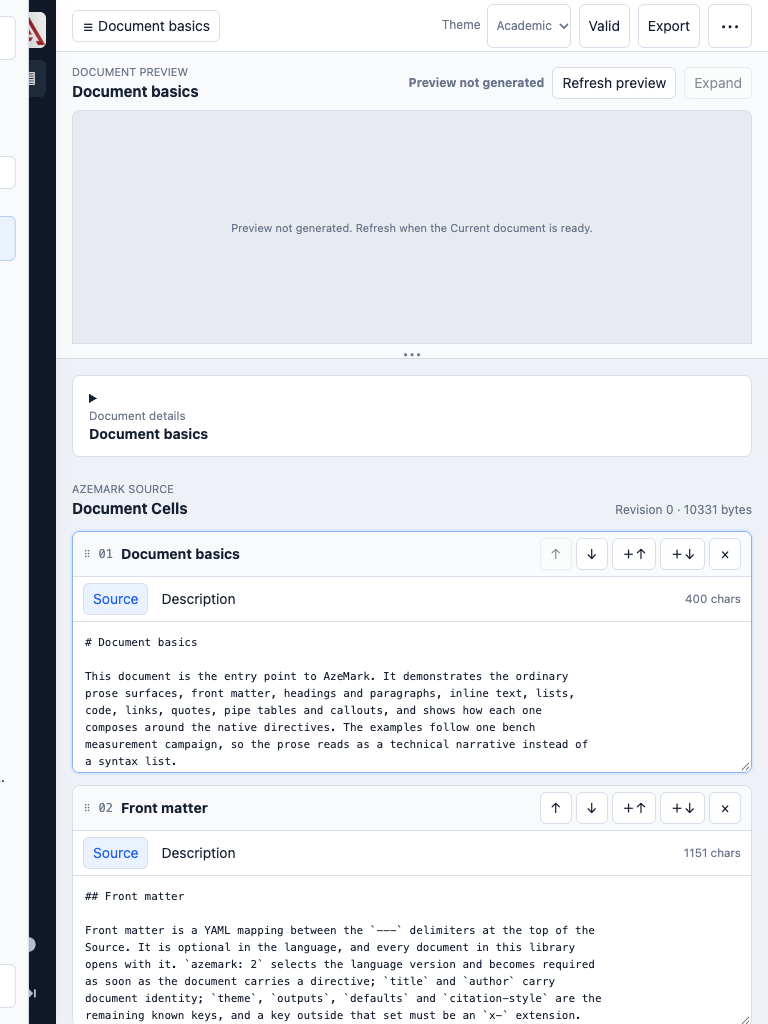
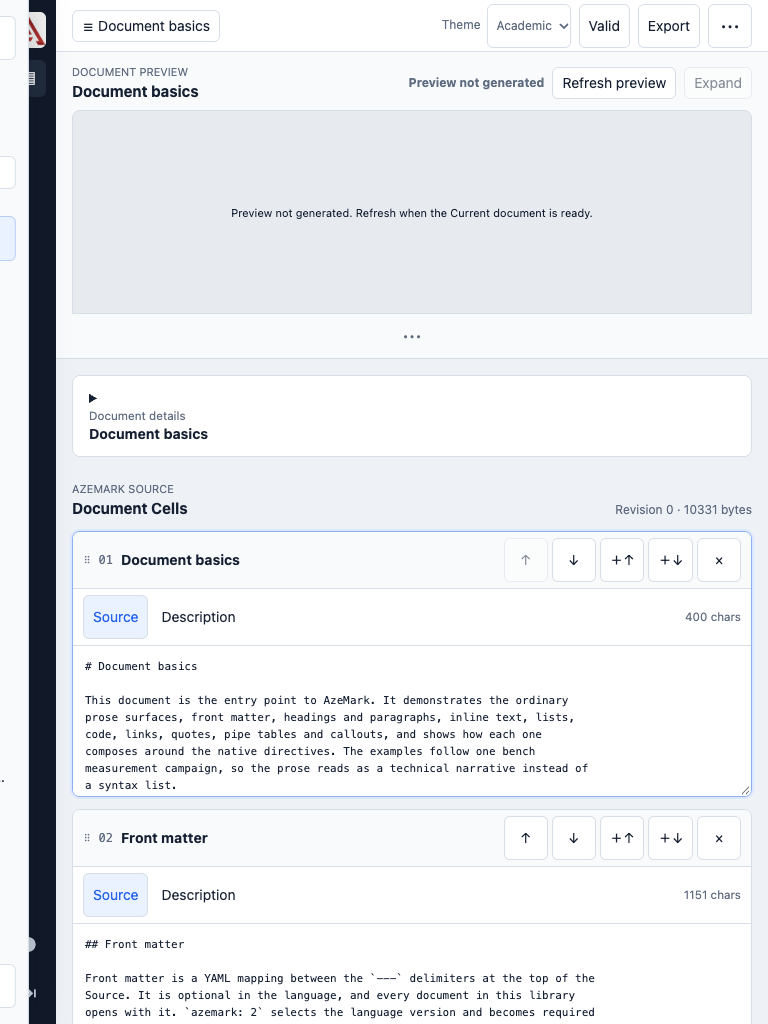
Complete accessibility, density, and release verification (#31)
Meet WCAG AA text contrast and minimum target sizes across desktop, tablet, and
320 px reflow, keep the preview separator usable, and record the observed
verification per acceptance ID in the specification together with the viewport
captures and the named assistive-technology gaps.

Changed region(s): [[0.0938, 0.5312, 1.0, 1.0], [0.3125, 0.1875, 0.75, 0.25], [0.7188, 0.5312, 0.9688, 0.625]]

diff --git a/src/web/app.css b/src/web/app.css
@@ -1,5 +1,5 @@
-:root{color-scheme:light;--nav:#111827;--nav-raised:#202b3c;--canvas:#eef1f5;--surface:#fff;--line:#d7dee8;--text:#162033;--muted:#68758a;--accent:#2563eb;--accent-soft:#eaf1ff;--success:#16825b;--stale:#c76b13;--error:#b42318;--focus:#8eb0ed;--space-1:4px;--space-2:8px;--space-3:12px;--space-4:16px;--space-5:24px;--space-6:32px;--radius-control:6px;--radius-panel:8px;--z-sticky:10;--z-scrim:20;--z-panel:30;--z-modal:40;--z-status:50;font:14px/1.4 ui-sans-serif,-apple-system,BlinkMacSystemFont,"Segoe UI",sans-serif;color:var(--text)}*{box-sizing:border-box}html,body{height:100%;margin:0}body{overflow:hidden;background:var(--canvas)}button,input,textarea,select{font:inherit;color:inherit}button,select,input,textarea{border:1px solid var(--line);border-radius:var(--radius-control);background:var(--surface)}button{min-width:32px;min-height:32px;padding:5px 9px;cursor:pointer}button:disabled{opacity:.5;cursor:not-allowed}:focus-visible{outline:2px solid var(--accent);outline-offset:2px}.skip-link{position:fixed;z-index:100;left:8px;top:8px;transform:translateY(-160%);padding:8px 12px;background:var(--surface);color:var(--accent)}.skip-link:focus{transform:none}.visually-hidden{position:absolute!important;width:1px;height:1px;padding:0;margin:-1px;overflow:hidden;clip:rect(0,0,0,0);white-space:nowrap;border:0}.workspace{display:grid;grid-template-columns:64px 248px minmax(0,1fr);height:100%;overflow:hidden}.app-rail{display:flex;flex-direction:column;align-items:center;gap:12px;padding:12px 8px;background:var(--nav);color:#fff}.app-rail img{border-radius:6px}.rail-destination{border-color:transparent;background:transparent;color:#cbd5e1;font-size:18px}.rail-destination[aria-current]{background:var(--nav-raised);color:#fff}.rail-spacer{flex:1}.document-nav{display:flex;min-width:0;flex-direction:column;padding:16px 12px;border-right:1px solid var(--line);background:#f8fafc;overflow:auto}.document-nav>header{display:flex;align-items:center;justify-content:space-between}.document-nav>header p{margin:0;color:var(--muted);font-size:11px;font-weight:700;letter-spacing:.08em;text-transform:uppercase}.document-nav>header button{display:none}.document-row{display:flex;align-items:center;gap:9px;margin:12px 0;text-align:left;border-color:transparent;background:transparent}.document-row span:last-child{min-width:0}.document-row strong,.document-row small{display:block;overflow:hidden;text-overflow:ellipsis;white-space:nowrap}.document-row small,.small-status{color:var(--muted);font-size:11px}.document-mark{display:grid;place-items:center;flex:none;width:34px;height:38px;border-radius:6px;background:var(--accent);color:#fff;font-weight:700}.search{display:grid;gap:5px;color:var(--muted);font-size:12px}.search input{width:100%;padding:7px}.small-status{min-height:1.2em;margin:7px 0}.cell-list{display:grid;gap:4px;overflow:auto}.cell-list button{display:grid;grid-template-columns:28px minmax(0,1fr);gap:7px;width:100%;text-align:left;border-color:transparent;background:transparent}.cell-list button[aria-current=true]{border-color:#b8cdf4;background:var(--accent-soft)}.cell-list b{color:var(--accent);font-size:11px}.cell-list span,.cell-list small{display:block;overflow:hidden;text-overflow:ellipsis;white-space:nowrap}.cell-list small{color:var(--muted);font-size:10px}.add-cell{margin-top:auto;color:var(--accent)}#main-workspace{display:flex;min-width:0;min-height:0;flex-direction:column;overflow:auto}.utility-bar{position:sticky;z-index:var(--z-sticky);top:0;display:flex;align-items:center;flex:none;height:56px;padding:0 24px;border-bottom:1px solid var(--line);background:var(--surface)}.utility-identity{display:flex;gap:6px}.utility-identity span{color:var(--muted)}.document-trigger{display:none}.utility-actions{display:flex;align-items:center;gap:8px;margin-left:auto}.utility-actions label{display:flex;align-items:center;gap:6px;color:var(--muted);font-size:12px}.utility-actions select{padding:5px}.menu{position:fixed;z-index:var(--z-panel);top:50px;right:55px;display:grid;min-width:180px;padding:6px;border:1px solid var(--line);border-radius:8px;background:var(--surface);box-shadow:0 12px 30px #0e182a33}.menu[hidden]{display:none}.menu button{text-align:left;border-color:transparent}.more-menu{right:18px}.document-preview{display:flex;flex:none;flex-direction:column;height:var(--preview-height,28vh);min-height:180px;max-height:60vh;padding:12px 24px 0;border-bottom:1px solid var(--line);background:#f8fafc}.document-preview>header{display:flex;align-items:center;justify-content:space-between;gap:12px;margin-bottom:8px}.document-preview p,.canvas-heading p{margin:0;color:var(--muted);font-size:11px;text-transform:uppercase}.document-preview h1,.canvas-heading h2{margin:2px 0 0;font-size:15px}.preview-actions{display:flex;align-items:center;gap:8px}.preview-actions strong{color:var(--muted);font-size:12px}.preview-actions strong[data-state=stale]{color:var(--stale)}.preview-actions strong[data-state=current]{color:var(--success)}.preview-actions strong[data-state=failed],.preview-actions strong[data-state=blocked]{color:var(--error)}.preview-frame{display:grid;place-items:center;min-height:0;flex:1;overflow:hidden;border:1px solid var(--line);border-radius:8px 8px 0 0;background:#e7ebf0}.preview-frame iframe{width:100%;height:100%;border:0;background:white}.preview-frame p{max-width:36rem;padding:16px;text-align:center;text-transform:none}.preview-separator{height:14px;text-align:center;cursor:ns-resize;color:var(--muted)}.cell-canvas{width:min(100%,968px);margin:0 auto;padding:24px}.document-details{border:1px solid var(--line);border-radius:8px;background:var(--surface)}.document-details summary{padding:12px 16px;cursor:pointer}.document-details summary small,.document-details summary strong{display:block}.document-details summary small{color:var(--muted)}.details-fields{display:grid;grid-template-columns:2fr 1fr 1fr;gap:12px;padding:0 16px 16px}.details-fields label{display:grid;gap:4px;color:var(--muted);font-size:12px}.details-fields input,.details-fields textarea{width:100%;padding:7px}.details-fields .metadata{grid-column:1/-1}.canvas-heading{display:flex;align-items:end;justify-content:space-between;margin:24px 0 12px}.canvas-heading span{color:var(--muted);font-size:12px}.notebook-cells{display:grid;gap:12px}.cell{border:1px solid var(--line);border-radius:8px;background:var(--surface);overflow:hidden}.cell:focus-within,.cell[data-active=true]{border-color:var(--focus);box-shadow:0 0 0 2px #dce8ff}.cell>header{display:flex;align-items:center;justify-content:space-between;min-height:44px;padding:6px 10px;border-bottom:1px solid var(--line);background:#f8fafc}.cell-heading{display:flex;gap:8px;align-items:center}.cell-heading span{color:var(--muted);font:12px ui-monospace,SFMono-Regular,Menlo,monospace}.cell-actions{display:flex;gap:4px}.editor-tabs{display:flex;align-items:center;gap:3px;padding:6px 10px;border-bottom:1px solid var(--line)}.editor-tabs button{border-color:transparent;background:transparent}.editor-tabs button[aria-selected=true]{border-color:var(--line);background:var(--accent-soft);color:var(--accent)}.editor-tabs small{margin-left:auto;color:var(--muted)}.cell textarea{display:block;width:100%;min-height:150px;padding:12px;border:0;border-radius:0;resize:vertical;font:12px/1.55 ui-monospace,SFMono-Regular,Menlo,monospace}.description-panel{padding:12px}.description-panel textarea{border:1px solid var(--line);border-radius:6px}.description-actions{display:flex;justify-content:flex-end;gap:8px;margin-top:8px}.proposal{padding:12px;border-top:1px solid #efcc9f;background:#fff8ed}.proposal textarea{margin-top:8px;border:1px solid #efcc9f}.proposal footer{display:flex;justify-content:flex-end;gap:8px;margin-top:8px}.cell-insert{width:100%;border-style:dashed;color:var(--accent)}.add-cell-bottom{width:100%;margin-top:12px;border-style:dashed;color:var(--accent)}.diagnostics-panel{position:fixed;z-index:var(--z-panel);right:0;top:56px;bottom:0;width:min(390px,42vw);padding:16px;border-left:1px solid var(--line);background:var(--surface);box-shadow:-8px 0 30px #0e182a22;overflow:auto}.diagnostics-panel>header{display:flex;justify-content:space-between}.diagnostics-panel h2{margin:3px 0;font-size:16px}.diagnostic{padding:10px;border-left:3px solid var(--line);background:#f8fafc}.diagnostic[data-severity=error]{border-color:var(--error)}.diagnostic[data-severity=warning]{border-color:var(--stale)}.drawer-scrim{display:none}.undo-bar{position:fixed;z-index:var(--z-status);right:20px;bottom:20px;padding:10px 14px;border-radius:8px;background:var(--nav);color:white}.preview-dialog{width:min(96vw,1200px);height:92vh;padding:0;border:0;border-radius:8px}.preview-dialog::backdrop,.proposal-dialog::backdrop,dialog::backdrop{background:#0f172a99}.preview-dialog header{display:flex;align-items:center;gap:12px;padding:10px 14px}.preview-dialog header strong{margin-left:auto}.preview-dialog iframe{width:100%;height:calc(100% - 58px);border:0}.proposal-dialog{width:min(900px,92vw)}.proposal-dialog header,.proposal-dialog footer{display:flex;justify-content:space-between;gap:8px}.proposal-dialog textarea{width:100%;height:55vh;font:12px/1.5 ui-monospace,SFMono-Regular,Menlo,monospace}.gate{position:fixed;z-index:var(--z-modal);inset:0;display:grid;place-items:center;padding:16px;background:var(--nav)}.gate[hidden]{display:none}.gate-card{display:grid;gap:12px;width:min(420px,100%);padding:28px;border-radius:8px;background:var(--surface)}.gate-card h1,.gate-card p{margin:0}.gate-card label{display:grid;gap:5px}.gate-card input{padding:8px}.error{color:var(--error)}.field-feedback{color:var(--error);font-size:11px}
-@media(max-width:1199px){.workspace{grid-template-columns:56px minmax(0,1fr)}.app-rail{padding-inline:6px}.document-nav{position:fixed;z-index:var(--z-panel);left:56px;top:0;bottom:0;width:272px;transform:translateX(-110%);transition:transform 160ms ease;box-shadow:8px 0 30px #0e182a33}.workspace[data-nav-open=true] .document-nav{transform:none}.document-nav>header button{display:block}.drawer-scrim{position:fixed;z-index:var(--z-scrim);inset:0 0 0 56px;border:0;border-radius:0;background:#10182766}.workspace[data-nav-open=true] .drawer-scrim{display:block}.utility-bar{height:52px;padding:0 16px}.document-trigger{display:block}.utility-identity{display:none}.document-preview{height:var(--preview-height,30vh);min-height:160px;max-height:50vh;padding-inline:16px}.cell-canvas{padding:16px}.cell textarea{font-size:11px}.utility-actions button,.utility-actions select,.document-nav button{min-width:44px;min-height:44px}.diagnostics-panel{top:auto;left:56px;width:auto;height:min(55vh,520px);border-top:1px solid var(--line);border-left:0}}
+:root{color-scheme:light;--nav:#111827;--nav-raised:#202b3c;--canvas:#eef1f5;--surface:#fff;--line:#d7dee8;--text:#162033;--muted:#5f6b80;--accent:#2563eb;--accent-soft:#eaf1ff;--success:#16825b;--stale:#9a530f;--error:#b42318;--focus:#8eb0ed;--space-1:4px;--space-2:8px;--space-3:12px;--space-4:16px;--space-5:24px;--space-6:32px;--radius-control:6px;--radius-panel:8px;--z-sticky:10;--z-scrim:20;--z-panel:30;--z-modal:40;--z-status:50;font:14px/1.4 ui-sans-serif,-apple-system,BlinkMacSystemFont,"Segoe UI",sans-serif;color:var(--text)}*{box-sizing:border-box}html,body{height:100%;margin:0}body{overflow:hidden;background:var(--canvas)}button,input,textarea,select{font:inherit;color:inherit}button,select,input,textarea{border:1px solid var(--line);border-radius:var(--radius-control);background:var(--surface)}button{min-width:32px;min-height:32px;padding:5px 9px;cursor:pointer}button:disabled{opacity:.5;cursor:not-allowed}:focus-visible{outline:2px solid var(--accent);outline-offset:2px}.skip-link{position:fixed;z-index:100;left:8px;top:8px;transform:translateY(-160%);padding:8px 12px;background:var(--surface);color:var(--accent)}.skip-link:focus{transform:none}.visually-hidden{position:absolute!important;width:1px;height:1px;padding:0;margin:-1px;overflow:hidden;clip:rect(0,0,0,0);white-space:nowrap;border:0}.workspace{display:grid;grid-template-columns:64px 248px minmax(0,1fr);height:100%;overflow:hidden}.app-rail{display:flex;flex-direction:column;align-items:center;gap:12px;padding:12px 8px;background:var(--nav);color:#fff}.app-rail img{border-radius:6px}.rail-destination{border-color:transparent;background:transparent;color:#cbd5e1;font-size:18px}.rail-destination[aria-current]{background:var(--nav-raised);color:#fff}.rail-spacer{flex:1}.document-nav{display:flex;min-width:0;flex-direction:column;padding:16px 12px;border-right:1px solid var(--line);background:#f8fafc;overflow:auto}.document-nav>header{display:flex;align-items:center;justify-content:space-between}.document-nav>header p{margin:0;color:var(--muted);font-size:11px;font-weight:700;letter-spacing:.08em;text-transform:uppercase}.document-nav>header button{display:none}.document-row{display:flex;align-items:center;gap:9px;margin:12px 0;text-align:left;border-color:transparent;background:transparent}.document-row span:last-child{min-width:0}.document-row strong,.document-row small{display:block;overflow:hidden;text-overflow:ellipsis;white-space:nowrap}.document-row small,.small-status{color:var(--muted);font-size:11px}.document-mark{display:grid;place-items:center;flex:none;width:34px;height:38px;border-radius:6px;background:var(--accent);color:#fff;font-weight:700}.search{display:grid;gap:5px;color:var(--muted);font-size:12px}.search input{width:100%;padding:7px}.small-status{min-height:1.2em;margin:7px 0}.cell-list{display:grid;gap:4px;overflow:auto}.cell-list button{display:grid;grid-template-columns:28px minmax(0,1fr);gap:7px;width:100%;text-align:left;border-color:transparent;background:transparent}.cell-list button[aria-current=true]{border-color:#b8cdf4;background:var(--accent-soft)}.cell-list b{color:var(--accent);font-size:11px}.cell-list span,.cell-list small{display:block;overflow:hidden;text-overflow:ellipsis;white-space:nowrap}.cell-list small{color:var(--muted);font-size:10px}.add-cell{margin-top:auto;color:var(--accent)}#main-workspace{display:flex;min-width:0;min-height:0;flex-direction:column;overflow:auto}.utility-bar{position:sticky;z-index:var(--z-sticky);top:0;display:flex;align-items:center;flex:none;height:56px;padding:0 24px;border-bottom:1px solid var(--line);background:var(--surface)}.utility-identity{display:flex;gap:6px}.utility-identity span{color:var(--muted)}.document-trigger{display:none}.utility-actions{display:flex;align-items:center;gap:8px;margin-left:auto}.utility-actions label{display:flex;align-items:center;gap:6px;color:var(--muted);font-size:12px}.utility-actions select{padding:5px}.menu{position:fixed;z-index:var(--z-panel);top:50px;right:55px;display:grid;min-width:180px;padding:6px;border:1px solid var(--line);border-radius:8px;background:var(--surface);box-shadow:0 12px 30px #0e182a33}.menu[hidden]{display:none}.menu button{text-align:left;border-color:transparent}.more-menu{right:18px}.document-preview{display:flex;flex:none;flex-direction:column;height:var(--preview-height,28vh);min-height:180px;max-height:60vh;padding:12px 24px 0;border-bottom:1px solid var(--line);background:#f8fafc}.document-preview>header{display:flex;align-items:center;justify-content:space-between;gap:12px;margin-bottom:8px}.document-preview p,.canvas-heading p{margin:0;color:var(--muted);font-size:11px;text-transform:uppercase}.document-preview h1,.canvas-heading h2{margin:2px 0 0;font-size:15px}.preview-actions{display:flex;align-items:center;gap:8px}.preview-actions strong{color:var(--muted);font-size:12px}.preview-actions strong[data-state=stale]{color:var(--stale)}.preview-actions strong[data-state=current]{color:var(--success)}.preview-actions strong[data-state=failed],.preview-actions strong[data-state=blocked]{color:var(--error)}.preview-frame{display:grid;place-items:center;min-height:0;flex:1;overflow:hidden;border:1px solid var(--line);border-radius:8px 8px 0 0;background:#e7ebf0}.preview-frame iframe{width:100%;height:100%;border:0;background:white}.preview-frame p{max-width:36rem;padding:16px;text-align:center;text-transform:none;color:var(--text)}.preview-separator{display:grid;place-items:center;height:32px;cursor:ns-resize;color:var(--muted)}.cell-canvas{width:min(100%,968px);margin:0 auto;padding:24px}.document-details{border:1px solid var(--line);border-radius:8px;background:var(--surface)}.document-details summary{padding:12px 16px;cursor:pointer}.document-details summary small,.document-details summary strong{display:block}.document-details summary small{color:var(--muted)}.details-fields{display:grid;grid-template-columns:2fr 1fr 1fr;gap:12px;padding:0 16px 16px}.details-fields label{display:grid;gap:4px;color:var(--muted);font-size:12px}.details-fields input,.details-fields textarea{width:100%;padding:7px}.details-fields .metadata{grid-column:1/-1}.canvas-heading{display:flex;align-items:end;justify-content:space-between;margin:24px 0 12px}.canvas-heading span{color:var(--muted);font-size:12px}.notebook-cells{display:grid;gap:12px}.cell{border:1px solid var(--line);border-radius:8px;background:var(--surface);overflow:hidden}.cell:focus-within,.cell[data-active=true]{border-color:var(--focus);box-shadow:0 0 0 2px #dce8ff}.cell>header{display:flex;align-items:center;justify-content:space-between;min-height:44px;padding:6px 10px;border-bottom:1px solid var(--line);background:#f8fafc}.cell-heading{display:flex;gap:8px;align-items:center}.cell-heading span{color:var(--muted);font:12px ui-monospace,SFMono-Regular,Menlo,monospace}.cell-actions{display:flex;gap:4px}.editor-tabs{display:flex;align-items:center;gap:3px;padding:6px 10px;border-bottom:1px solid var(--line)}.editor-tabs button{border-color:transparent;background:transparent}.editor-tabs button[aria-selected=true]{border-color:var(--line);background:var(--accent-soft);color:var(--accent)}.editor-tabs small{margin-left:auto;color:var(--muted)}.cell textarea{display:block;width:100%;min-height:150px;padding:12px;border:0;border-radius:0;resize:vertical;font:12px/1.55 ui-monospace,SFMono-Regular,Menlo,monospace}.description-panel{padding:12px}.description-panel textarea{border:1px solid var(--line);border-radius:6px}.description-actions{display:flex;justify-content:flex-end;gap:8px;margin-top:8px}.proposal{padding:12px;border-top:1px solid #efcc9f;background:#fff8ed}.proposal textarea{margin-top:8px;border:1px solid #efcc9f}.proposal footer{display:flex;justify-content:flex-end;gap:8px;margin-top:8px}.cell-insert{width:100%;border-style:dashed;color:var(--accent)}.add-cell-bottom{width:100%;margin-top:12px;border-style:dashed;color:var(--accent)}.diagnostics-panel{position:fixed;z-index:var(--z-panel);right:0;top:56px;bottom:0;width:min(390px,42vw);padding:16px;border-left:1px solid var(--line);background:var(--surface);box-shadow:-8px 0 30px #0e182a22;overflow:auto}.diagnostics-panel>header{display:flex;justify-content:space-between}.diagnostics-panel h2{margin:3px 0;font-size:16px}.diagnostic{padding:10px;border-left:3px solid var(--line);background:#f8fafc}.diagnostic[data-severity=error]{border-color:var(--error)}.diagnostic[data-severity=warning]{border-color:var(--stale)}.drawer-scrim{display:none}.undo-bar{position:fixed;z-index:var(--z-status);right:20px;bottom:20px;padding:10px 14px;border-radius:8px;background:var(--nav);color:white}.preview-dialog{width:min(96vw,1200px);height:92vh;padding:0;border:0;border-radius:8px}.preview-dialog::backdrop,.proposal-dialog::backdrop,dialog::backdrop{background:#0f172a99}.preview-dialog header{display:flex;align-items:center;gap:12px;padding:10px 14px}.preview-dialog header strong{margin-left:auto}.preview-dialog iframe{width:100%;height:calc(100% - 58px);border:0}.proposal-dialog{width:min(900px,92vw)}.proposal-dialog header,.proposal-dialog footer{display:flex;justify-content:space-between;gap:8px}.proposal-dialog textarea{width:100%;height:55vh;font:12px/1.5 ui-monospace,SFMono-Regular,Menlo,monospace}.gate{position:fixed;z-index:var(--z-modal);inset:0;display:grid;place-items:center;padding:16px;background:var(--nav)}.gate[hidden]{display:none}.gate-card{display:grid;gap:12px;width:min(420px,100%);padding:28px;border-radius:8px;background:var(--surface)}.gate-card h1,.gate-card p{margin:0}.gate-card label{display:grid;gap:5px}.gate-card input{padding:8px}.error{color:var(--error)}.field-feedback{color:var(--error);font-size:11px}
+@media(max-width:1199px){.workspace{grid-template-columns:56px minmax(0,1fr)}.app-rail{padding-inline:6px}.document-nav{position:fixed;z-index:var(--z-panel);left:56px;top:0;bottom:0;width:272px;transform:translateX(-110%);transition:transform 160ms ease;box-shadow:8px 0 30px #0e182a33}.workspace[data-nav-open=true] .document-nav{transform:none}.document-nav>header button{display:block}.drawer-scrim{position:fixed;z-index:var(--z-scrim);inset:0 0 0 56px;border:0;border-radius:0;background:#10182766}.workspace[data-nav-open=true] .drawer-scrim{display:block}.utility-bar{height:52px;padding:0 16px}.document-trigger{display:block}.utility-identity{display:none}.document-preview{height:var(--preview-height,30vh);min-height:160px;max-height:50vh;padding-inline:16px}.cell-canvas{padding:16px}.cell textarea{font-size:11px}.utility-actions button,.utility-actions select,.document-nav button,.cell button,.cell-list button{min-width:44px;min-height:44px}.preview-separator{height:44px}.diagnostics-panel{top:auto;left:56px;width:auto;height:min(55vh,520px);border-top:1px solid var(--line);border-left:0}}
 @media(max-width:520px){.workspace{grid-template-columns:1fr}.app-rail{display:none}.document-nav{left:0;width:min(90vw,320px)}.drawer-scrim{inset:0}.utility-bar{height:auto;min-height:52px;flex-wrap:wrap;padding:8px}.utility-actions{gap:4px}.utility-actions label{font-size:0}.utility-actions label select{font-size:12px}.document-preview{padding-inline:8px}.document-preview>header{align-items:flex-start;flex-direction:column}.preview-actions{width:100%;flex-wrap:wrap}.cell-canvas{padding:12px 8px}.details-fields{grid-template-columns:1fr}.details-fields .metadata{grid-column:auto}.cell>header{align-items:flex-start}.cell-actions{flex-wrap:wrap;justify-content:flex-end}.diagnostics-panel{left:0}.menu{right:8px}.document-trigger span{display:none}}
 @media(prefers-reduced-motion:reduce){*{scroll-behavior:auto!important;transition-duration:0s!important}}
 @media(forced-colors:active){button,input,textarea,select,.cell,.document-details,.preview-frame{border:1px solid CanvasText}.cell:focus-within{outline:2px solid Highlight}.app-rail{background:Canvas;color:CanvasText}}

diff --git a/docs/ui/authoring-workspace-redesign.md b/docs/ui/authoring-workspace-redesign.md
@@ -15,8 +15,8 @@ Reading order: skip links → application navigation → Current document naviga
 | Token | Value |
 | --- | --- |
 | `nav`, `nav-raised`, `canvas`, `surface`, `border` | `#111827`, `#202b3c`, `#eef1f5`, `#fff`, `#d7dee8` |
-| `text`, `muted`, `accent`, `accent-surface` | `#162033`, `#68758a`, `#2563eb`, `#eaf1ff` |
-| `success`, `stale`, `error` | `#16825b`, `#c76b13`, `#b42318` |
+| `text`, `muted`, `accent`, `accent-surface` | `#162033`, `#5f6b80`, `#2563eb`, `#eaf1ff` |
+| `success`, `stale`, `error` | `#16825b`, `#9a530f`, `#b42318` |
 | UI / Source type | system sans 14/1.4; system mono 12/1.55 desktop, 11/1.55 tablet |
 | spacing | 4, 8, 12, 16, 24, 32 px |
 | radii | 6 px controls; 8 px panels and Cells |
@@ -107,6 +107,8 @@ Required keyboard-only workflows: mode switch; generation/cancellation; Draft Ga
 
 Required viewport captures: 1440×900, 1200 boundary, 1199 boundary, 1024×768, 768×1024, 767 boundary reflow check, and 320 CSS px zoom reflow. Run minimum, typical, and stress fixtures. Record browser screenshots, request/state walkthroughs, automated accessibility output, keyboard Chromium/Safari, VoiceOver/Safari, and NVDA/Windows when available. Unavailable NVDA coverage is an explicit gap, never a pass.
 
+Recorded captures: `acceptance/workspace/workspace-{1440x900,1200x900,1199x900,1024x768,768x1024,767x1024,320x800}.png`, plus `workspace-1024x768-drawer-open.png` and the 200 % zoom reflow `workspace-zoom200-720x900.png`.
+
 | Decision | Sections | IDs | Planned evidence |
 | --- | --- | --- | --- |
 | #15 state model | Cell editor; state matrix | DRAFT-01–03 | reducer tests; generation walkthrough |
@@ -117,6 +119,31 @@ Required viewport captures: 1440×900, 1200 boundary, 1199 boundary, 1024×768, 
 | #20 preview | preview; state matrix | PREVIEW-01–04 | stale/failure/resize/modal scenarios |
 | #21 responsive | tokens | A11Y-01 | boundary captures |
 | #22 accessibility | keyboard/accessibility | A11Y-01–02 | scans and manual assistive-technology evidence |
+
+## Observed evidence
+
+Recorded 2026-09-28 against headless Chromium (CDP) driving the real service with a stubbed authoring provider. Captures live in `acceptance/workspace/`. Every row names what was observed, not what was planned.
+
+| ID | Observation |
+| --- | --- |
+| NAV-01 | The rendered navigation contains one static `This session` row, search, outline, and Add Cell; no new/open/save/recent/project control exists in the DOM. |
+| NAV-02 | Two Cells sharing the label `Duplicate label` kept distinct outline entries, and clicking the second focused that Cell. |
+| NAV-03 | Searching `Thermal` and a Source/Pending-Description term filtered the outline only (3 and 1 entries) while all 14 Cells stayed rendered; Escape cleared the query. |
+| CELL-01 | Insert focused the new Cell, move preserved the moved Cell's editor focus, delete focused the following Cell and exposed Undo, and Undo restored the Cell, its position, and its focus. |
+| DRAFT-01 | Clicking Generate locked Source, Add Cell, and document fields, kept outline navigation available, and returned to Description with focus on Cancel; the late stub result produced no proposal. |
+| DRAFT-02 | A Source edit while a valid proposal was shown moved it to `stale` in place, disabled Apply, and kept editor focus (reducer tests cover invalid and apply guards). |
+| DRAFT-03 | Apply replaced Source with the proposed text and focused the Source editor; Discard restored Description mode with the same Last-applied Source and preserved Pending Description. |
+| PREVIEW-01 | Loading, Source edits, Theme changes, and modal expansion issued zero `/v1/jobs` requests; only Refresh compiled. |
+| PREVIEW-02 | Reducer tests reject obsolete request, revision, and Theme responses; the browser retained the current Artifact across edits. |
+| PREVIEW-03 | A refresh whose Source carried `STUB:INVALID` reported `Preview blocked by Source errors`, exposed the diagnostics action, and kept the previous Artifact. |
+| PREVIEW-04 | Arrow keys moved the separator by 16 px, End/Home clamped to 540/180 px, and reload restored the stored height (212 px) with no Artifact. |
+| DOC-01 | An analysis diagnostic inside the front matter auto-opened Document details, populated field-local feedback, and its diagnostic action focused the metadata field. |
+| FORMAT-01 | Format opened a `Formatted Source` dialog; Source changed only after Apply. |
+| EXPORT-01 | Export issued its own compile job with the current Source and Theme and showed `Exporting…` then completion; an invalid Source opened diagnostics and showed `Export failed`. |
+| A11Y-01 | At 1440/768/320 no interactive target measured below 24×24 px, no text pair measured below its WCAG AA threshold, `prefers-reduced-motion` collapsed the drawer transition to `0s`, and forced colors applied CanvasText borders. |
+| A11Y-02 | A keyboard-only Tab walk (25 stops) never lost focus to `body`; menus, the service dialog, tab lists, the outline, and Cell insertion completed with Escape restoring the exact trigger. |
+
+Evidence gaps, never passes: VoiceOver/Safari and NVDA/Windows passes were not run in this session, and Safari rendering was not exercised. The headless Chromium results above are the only first-hand observations.
 
 ## Decision history
 

diff --git a/README.md b/README.md
@@ -18,9 +18,16 @@ deployment acceptance smoke suite. [Build the AzeForge Web service and
 edit-preview-export frontend](https://github.com/aruzone/aze-forge-web/issues/1)
 is the service and frontend work itself.
 
+The authoring workspace is specified in
+[`docs/ui/authoring-workspace-redesign.md`](docs/ui/authoring-workspace-redesign.md):
+one ephemeral Current document of stable-identity Cells, a shared
+Source/Description editor with the Draft Gate review step, and one manually
+refreshed Document preview. That document holds the tokens, state matrix, and
+acceptance IDs, and the observed verification evidence for them.
+
 Explicitly out of scope, by decision: accounts, signup, saved cloud projects,
-collaboration, LLM integration, durable storage, cross-client sharing, remote
-asset fetching, browser-only compilation, and hosted raw LaTeX.
+collaboration, durable storage, cross-client sharing, remote asset fetching,
+browser-only compilation, and hosted raw LaTeX.
 
 ## Quick start
 
